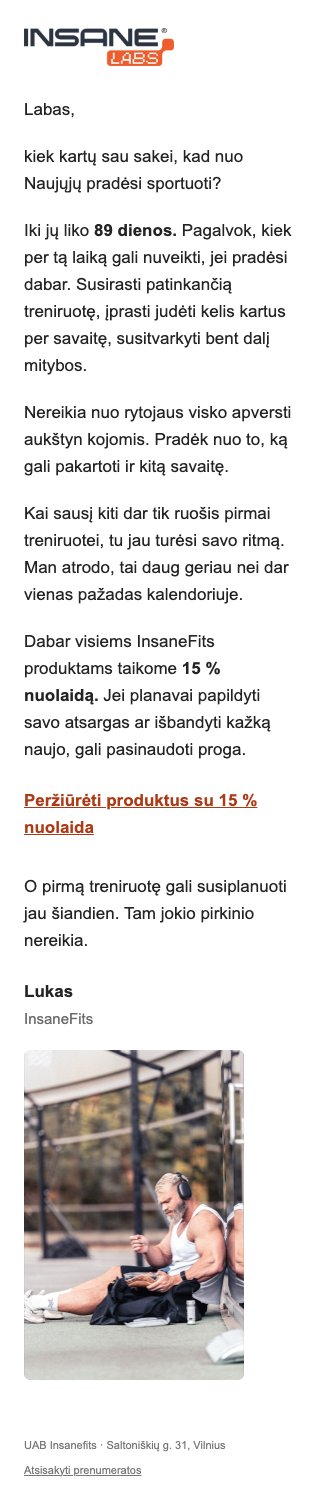
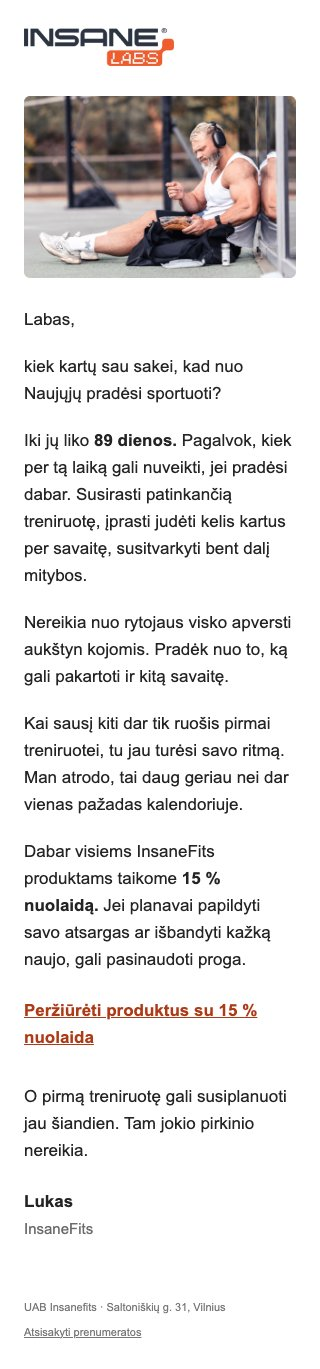
Move founder photo to landscape email header

diff --git a/campaigns/2026-10/pradek-dabar-founder/newsletter.html b/campaigns/2026-10/pradek-dabar-founder/newsletter.html
@@ -12,6 +12,7 @@
 <!--[if mso]><table role="presentation" width="600" cellpadding="0" cellspacing="0"><tr><td><![endif]-->
 <table role="presentation" width="100%" cellpadding="0" cellspacing="0" style="width:100%;max-width:600px;background:#ffffff;"><tr><td class="content" style="padding:36px 28px 24px;font-family:Arial,Helvetica,sans-serif;font-size:17px;line-height:27px;color:#242424;">
 <p style="margin:0 0 30px;"><img src="https://insanefits.com/cdn/shop/files/InsaneLabs-logo.png?v=1773731616&amp;width=450" width="150" alt="Insane Labs" style="display:block;width:150px;max-width:100%;height:auto;border:0;"></p>
+<p style="margin:0 0 28px;"><img src="https://raw.githubusercontent.com/elaiskai/insanefits-email-assets/main/campaigns/2026-10/pradek-dabar-founder/lukas-landscape.jpg" width="544" alt="Lukas per pietų pertrauką" style="display:block;width:100%;max-width:544px;height:auto;border:0;border-radius:6px;"></p>
 <p style="margin:0 0 20px;">Labas,</p>
 <p style="margin:0 0 20px;">kiek kartų sau sakei, kad nuo Naujųjų pradėsi sportuoti?</p>
 <p style="margin:0 0 20px;">Iki jų liko <strong>89 dienos.</strong> Pagalvok, kiek per tą laiką gali nuveikti, jei pradėsi dabar. Susirasti patinkančią treniruotę, įprasti judėti kelis kartus per savaitę, susitvarkyti bent dalį mitybos.</p>
@@ -21,7 +22,6 @@
 <p style="margin:0 0 20px;"><a class="cta" href="https://insanefits.com/collections/all?utm_source=omnisend&amp;utm_medium=email&amp;utm_campaign=pradek_dabar_founder&amp;utm_content=personal_link" style="display:block;padding:12px 0;color:#ad3b18;text-decoration:underline;font-size:17px;line-height:27px;font-weight:700;">Peržiūrėti produktus su 15 % nuolaida</a></p>
 <p style="margin:0 0 24px;">O pirmą treniruotę gali susiplanuoti jau šiandien. Tam jokio pirkinio nereikia.</p>
 <p style="margin:0;"><strong>Lukas</strong><br><span style="color:#6b6b6b;font-size:15px;">InsaneFits</span></p>
-<p style="margin:18px 0 0;"><img src="https://raw.githubusercontent.com/elaiskai/insanefits-email-assets/main/campaigns/2026-10/pradek-dabar-founder/lukas.jpg" width="220" alt="Lukas per pietų pertrauką" style="display:block;width:220px;max-width:100%;height:auto;border:0;border-radius:6px;"></p>
 </td></tr>
 <tr><td class="content" style="padding:12px 28px 30px;font-family:Arial,Helvetica,sans-serif;color:#777777;font-size:11px;line-height:18px;">
 <p style="margin:0 0 7px;">UAB Insanefits · Saltoniškių g. 31, Vilnius</p>
